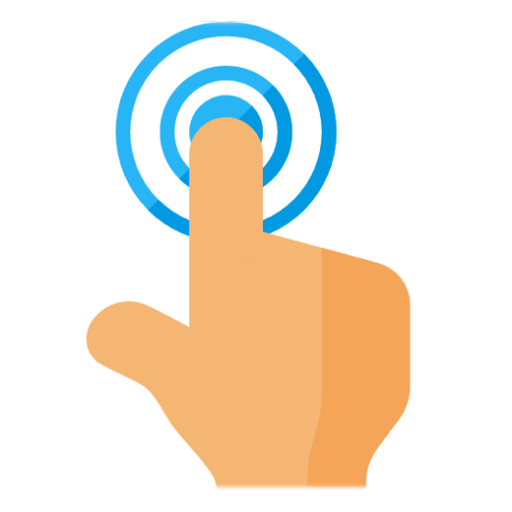
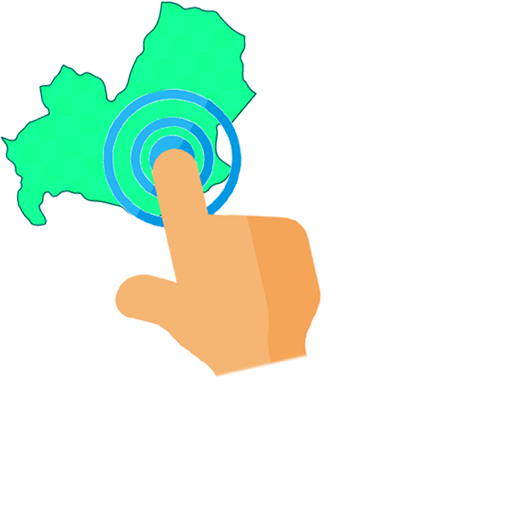
STABLE

diff --git a/components/LandingComponent.tsx b/components/LandingComponent.tsx
@@ -390,7 +390,7 @@ const LandingComponent = ({ slug }: { slug: any }) => {
         <main className="mt-10 grid w-full grid-cols-12 space-y-12 space-x-4">
           <div className="xl:col-span-3"></div>
           <div className="welcome-map col-span-12 box-border flex flex-col px-4 xl:col-span-6">
-            <h2 className="first-title text-center text-4xl font-bold">
+            <h2 className="first-title text-center text-3xl font-bold">
               Il portale delle meraviglie
             </h2>
             <br />
@@ -413,32 +413,25 @@ const LandingComponent = ({ slug }: { slug: any }) => {
                 }}
                 className="w-full"
               />
-              <div
-                style={{
-                  display: "flex",
-                  alignItems: "center",
-                  justifyContent: "center",
-                  marginTop: -30,
-                }}
-              >
-                <Image
-                  src="/images/hand1.png"
-                  objectFit="contain"
-                  layout="intrinsic"
-                  width={48}
-                  height={48}
-                  alt="hand"
-                  className="hand1"
-                />
-              </div>
+
             </div>
           </div>
           {listaEventi.filter((doc) => doc?.luogo === slug).length == 0 && (
             <div className="col-span-12 !mt-4 box-border flex flex-col px-4 xl:col-span-12">
+              
               <p
                 className="text-center"
                 style={{ fontWeight: "700", fontSize: 16 }}
               >
+                           <Image
+                  src="/images/hand1.png"
+                  objectFit="contain"
+                  layout="intrinsic"
+                  width={46}
+                  height={46}
+                  alt="hand"
+                  className="hand1"
+                />
                 Clicca su una{" "}
                 <span className="text-secondary-500">regione</span> che vuoi
                 esplorare

diff --git a/styles/globals.css b/styles/globals.css
@@ -73,11 +73,11 @@ img.betaLabel {
 .first-title{
   font-family: 'Pacifico', cursive;
   color: #0A093D ;
-  margin-bottom: -26px;
+  margin-bottom: -5px;
 }
 
 .hand1 {
-  border-radius: 20% !important;
+  top: 24px !important;
 }
 
 .hand1:hover {
@@ -358,6 +358,10 @@ textarea:hover {
 }
 
 @media only screen and (min-width: 0px) and (max-width: 700px) {
+  .first-title {
+    margin-bottom: 38px;
+  }
+  
   .facebook_text_grid_width {
     width: 100%;
     text-align: center;

diff --git a/pages/signin.tsx b/pages/signin.tsx
@@ -97,6 +97,8 @@ const Signin = () => {
               Invia
             </span>
             <span className="invisible relative">Invia</span>
+            <br />
+            <br />
           </button>
           <br />
         </div>
